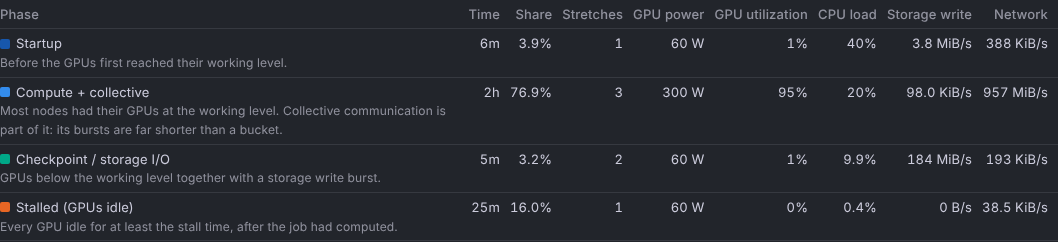
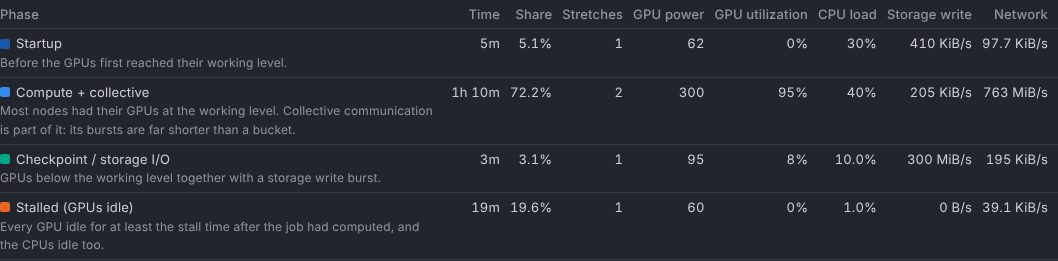
docs(job-dashboard): bring the job phases documents in line with the fixes
Replace the screenshots, state the measured request counts per node
count and the timings of the 2,000-node run, record the second round of
checks against Prometheus and VictoriaMetrics in the design record, and
add the limits that the review showed: one active GPU sample ends an
idle run, GPU work at or below the idle threshold is idle, and a scrape
interval of more than five minutes cannot be measured.

Claude-Session: https://claude.ai/code/session_012me448yAksxRtbQf2QUjB3

diff --git a/docs/job-phases.md b/docs/job-phases.md
@@ -10,7 +10,7 @@ The phases are labels for what the telemetry of the job's nodes showed. They are
 
 ## What the section shows
 
-- **Breakdown bar and legend**: the share of the analysed window per label, for example `3.9% Startup, 76.9% Compute + collective, 3.2% Checkpoint / storage I/O, 16.0% Stalled (GPUs idle)`. The shares are printed with one decimal and add up to 100.0%. Unclassified time and time without GPU data have their own shares.
+- **Breakdown bar and legend**: the share of the analysed window per label, for example `5.1% Startup, 72.2% Compute + collective, 3.1% Checkpoint / storage I/O, 19.6% Stalled (GPUs idle)`. The shares are printed with one decimal and add up to 100.0%. Unclassified time and time without GPU data have their own shares.
 - **Timeline**: the stretches in time order. The strip always spans exactly the analysed window, and every block starts and ends at the true times of its stretches. Hover a block to read its window, length and label. Click it to zoom the metric panels to it (a metric must be pinned, so that a panel exists). Neighbouring stretches that are each shorter than 1/360 of the window (two pixels on a strip of 700 pixels) cannot be drawn one by one: such a run is drawn as one block whose bands show the shares of its labels from bottom to top, and a note under the strip says so. A single short stretch between two long ones keeps its own block; when it is narrower than a pixel it may not be visible.
 - **Notes**: the analysed window and its resolution, and everything that limits the result for this job: missing signals, nodes without telemetry, a node whose GPUs were idle while other nodes worked.
 - **Phase details and telemetry**: per label the time, the share, the number of stretches and the typical telemetry (medians), so that you can check a label against the numbers. GPU power is printed without a unit, because the power metric is configurable and only its ratio to the job's working level is used.
@@ -29,8 +29,8 @@ For a job that Slurm records as RUNNING, a warning appears when the job is stall
 |-------|---------------------------|
 | **Startup** | The time before the GPUs first reached their working level. |
 | **Compute + collective** | Most nodes had their GPUs at the working level. Collective communication is part of this phase, because its bursts inside a training step are far shorter than a bucket. |
-| **Checkpoint / storage I/O** | GPUs below the working level together with a storage write burst. |
-| **Stalled (GPUs idle)** | Every GPU of the job idle for at least the stall time, after the job had computed, unless the CPUs were at least as busy as during compute. The label names what was observed: a hang, and a job that waits (an interactive session, a `sleep` at the end), look the same. |
+| **Checkpoint / storage I/O** | GPUs below the working level, or idle, together with a storage write burst. |
+| **Stalled (GPUs idle)** | Every GPU of the job idle for at least the stall time, after the job had computed, with the CPUs idle too. The label names what was observed: a hang, and a job that waits (an interactive session, a `sleep` at the end), look the same. |
 | **Unclassified** | GPU telemetry exists, but the stretch fits none of the four phases. The section gives the reason (see below). |
 | **No GPU data** | No node of the job reported GPU telemetry. |
 
@@ -119,9 +119,9 @@ These numbers come from generated data. Real telemetry has not been measured.
 
 ### Checkpoints need a write series
 
-A scrape interval is measured from the last ten minutes of the run, so one of more than five minutes cannot be measured. A counter that is scraped that rarely has fewer than two samples in a bucket. On Prometheus its signal then has the state "too few samples for a rate" and is treated like a missing series (not like a rate of zero); VictoriaMetrics computes a rate from the last sample before the bucket, which spreads a burst over the scrape interval.
-
 A checkpoint is reported only where the configured storage write metrics show a burst. The default, `node_disk_written_bytes_total`, covers **local disks only**. A checkpoint to a network file system (Lustre, GPFS, NFS) does not show in it: the GPUs dip, and the dip is unclassified. To see such checkpoints, name a client-side write counter of that file system in the settings. Without any write series, no checkpoint is reported and the notes say so.
+
+The scrape interval of a counter is measured in the last ten minutes of the run, so an interval of more than five minutes cannot be measured. A counter that is scraped that rarely has fewer than two samples in a bucket. On Prometheus its signal then has the state "too few samples for a rate" and is treated like a missing series (not like a rate of zero); VictoriaMetrics computes a rate from the last sample before the bucket, which spreads a burst over the scrape interval. Measured with a storage exporter scraped every 10 minutes: Prometheus reported "too few samples" and no checkpoint; VictoriaMetrics reported 2 minutes of checkpoint for two true checkpoints of 4 minutes.
 
 ### Stalls
 
@@ -136,6 +136,8 @@ A checkpoint is reported only where the configured storage write metrics show a 
 - **A write during a hang** does not hide the hang. The idle run is counted first; a single written bucket, or a node that writes for a minute every few minutes, leaves the run a stall. Only an idle run that writes at burst level in more than half of its buckets is a checkpoint.
 - **A GPU that spins at full utilization** without doing work is not idle. It is seen only through power: when the power is under half of the working level, the stretch is unclassified (GPUs low).
 - **A long checkpoint to storage without a write series** (longer than the stall time) is reported as stalled when the CPUs are idle during it.
+- **One active GPU sample ends an idle run.** A hang in which one GPU shows a utilization sample above the idle threshold every few minutes has no idle run of the stall time and is not reported as stalled; its stretches are unclassified ("idle for less than the stall time").
+- **GPU work at or below the idle threshold** (sparse inference at 3 to 5% utilization) counts as idle GPUs, and as a stall when the CPUs are idle too. Lower the idle threshold in the settings for such workloads.
 - **A suspended job** has idle GPUs. The plugin knows only whether the job is suspended now and says so; an earlier suspension reads as a stall.
 - **A job that Slurm records as running after it ended** (a runaway job) has idle GPUs and reads as stalled now.
 - **A hang that keeps the GPUs busy** looks like compute. A hang that keeps GPU utilization above the idle threshold (for example 12% from a polling thread) is not idle either: it is unclassified (GPUs low) while the working level comes from real compute, and it reads as compute when it fills more than nine tenths of the active time of the job.
@@ -143,7 +145,7 @@ A checkpoint is reported only where the configured storage write metrics show a 
 
 ### Nodes and GPUs
 
-- GPU telemetry is read **per node**. When the job's nodes report more GPUs than the job allocated, the node averages would include other jobs, and the section gives **no result** for the job. The GPUs of each node are counted in three windows of ten minutes: at the end of the run, ten minutes after its start and in its middle (a job shorter than about 20 minutes has one or two windows). The count of a node is the median of the windows in which it reports, so a node whose exporter is silent at the end of the run is still counted, and an exporter restart, which shows every GPU twice in one window, does not refuse the job. GPUs of another job that report in none of these windows are not seen. Anything that makes a node export more utilization series than Slurm counts GPUs has the same effect: the same exporter stored twice (set the cluster's Metrics Filter to one copy), or one series per GPU partition.
+- GPU telemetry is read **per node**. When the job's nodes report more GPUs than the job allocated, the node averages would include other jobs, and the section gives **no result** for the job. The GPUs of each node are counted in three windows of ten minutes: at the end of the run, ten minutes after its start and in its middle (a job shorter than 20 minutes has one window, a job shorter than 30 minutes two). The count of a node is the median of the windows in which it reports, so a node whose exporter is silent at the end of the run is still counted, and an exporter restart, which shows every GPU twice in one window, does not refuse the job. GPUs of another job that report in none of these windows are not seen. Anything that makes a node export more utilization series than Slurm counts GPUs has the same effect: the same exporter stored twice (set the cluster's Metrics Filter to one copy), or one series per GPU partition.
 - When fewer GPUs report than the job allocated, the result covers the GPUs that report, and the notes say so. A GPU whose series is missing while the other GPUs of its node report is not noticed.
 - CPU load, storage write and network are node-wide. Another job on the same node adds to them.
 - A job on nodes with different GPU models has one working level for all nodes, and the level in power comes from the stronger GPUs. Nodes with weaker GPUs can read as below the working level although they work at full utilization. When most nodes have the weaker model, the whole job is unclassified with the reason "In no bucket did more than half of the nodes reach the job's working level".
@@ -193,7 +195,7 @@ A query names every node of the job, so it grows with the job. The plugin keeps 
 | 1,500 | 64 | 11,230 characters |
 | 2,000 | 80 | 10,212 characters |
 
-The 2,000-node job (every node exporting 1 GPU and 2 CPUs at a 30 s scrape interval, a run of 73 minutes, both backends on the same machine as the test) took 2.2 s on Prometheus and 1.3 s on VictoriaMetrics for all 80 requests. Jobs of more than 2,000 nodes are not analysed. No larger job and no other backend was run.
+The 2,000-node job (every node exporting 1 GPU and 2 CPUs at a 30 s scrape interval, a run of 73 minutes, both backends on the same machine as the test) took 1.5 to 2.2 s on Prometheus and 1.2 to 1.3 s on VictoriaMetrics for all 80 requests, in two runs. Jobs of more than 2,000 nodes are not analysed. No larger job and no other backend was run.
 
 The result is computed once when the page opens, and again on **Refresh**.
 

diff --git a/docs/superpowers/specs/2026-11-28-job-phase-segmentation-design.md b/docs/superpowers/specs/2026-11-28-job-phase-segmentation-design.md
@@ -438,9 +438,10 @@ The issue makes the overlay and the export optional.
   (`segment.property.test.ts`): segments tile the window without gap or
   overlap; totals and shares add up; a bucket is "no data" exactly when no
   node has a GPU sample; a stall only where every GPU of every node is
-  proven idle, after compute, in a run of the stall time; a checkpoint only
-  with a known write rate at the burst level; no claim that needs a missing
-  signal; no dependence on the unit of power, on the unit of the write rate
+  proven idle, after compute, in a run of the stall time, with a median
+  CPU load of the run under the idle limit; a checkpoint only with a write
+  rate at the burst level in the bucket, or in more than half of a long
+  idle run; no claim that needs a missing signal; no dependence on the unit of power, on the unit of the write rate
   (with a zero floor), on the network signal, on node order or start time;
   deterministic. The generator produces every label and every reason.
 - **Accuracy on synthetic jobs** (`accuracy.test.ts`,
@@ -463,7 +464,8 @@ The issue makes the overlay and the export optional.
   buckets where two phases meet.
 
   Hard cases, each a test: no disk series (checkpoints become unclassified,
-  never a phase); one stalled node of eight (job labels unchanged, node
+  never a phase); no CPU series (the stall becomes unclassified, never a
+  phase); one stalled node of eight (job labels unchanged, node
   named); power-capped job (110 W working, 60 W idle); low GPU load (30%);
   a job shorter than ten samples (no result, no query); a 15-minute gap on
   every node (no data); a gap on one node of four during a stall (those
@@ -475,18 +477,54 @@ The issue makes the overlay and the export optional.
 
   Share of the true checkpoint time reported, 1-minute buckets: 15 s 0%,
   30 s 30%, 45 s 85%, 60 s 81%, 90 s 91%, 2 min 91%, 5 min 96%.
-- **Real backends.** The collection and segmentation code was run against
-  Prometheus 3.5.0 and VictoriaMetrics 1.102.1 with generated telemetry of
-  19 jobs (per-CPU node_exporter series, several disks, a loopback
-  interface, a busy job before the job on the same nodes, a 64-node job, a
-  3-day job). After the fixes of decisions 7 and 8, both backends gave the
-  same label for every bucket as the fake backend of the tests, and no
-  point was off the grid.
-- **Real Grafana.** Grafana 13.3.1 with MariaDB and both backends, headless
-  Chromium: the section in dark and light theme for 15 jobs, hover, zoom,
-  the label draft (requests recorded), the settings page (save untouched,
-  invalid value refused, edited values served by the backend), a cluster
-  with the feature off.
+- **Real backends, first round.** The collection and segmentation code was
+  run against Prometheus 3.5.0 and VictoriaMetrics 1.102.1 with generated
+  telemetry of 19 jobs (per-CPU node_exporter series, several disks, a
+  loopback interface, a busy job before the job on the same nodes, a
+  64-node job, a 3-day job). Both backends gave the same label for every
+  bucket as the fake backend of the tests, and no point was off the grid.
+- **Real Grafana, first round.** Grafana 13.3.1 with MariaDB and both
+  backends, headless Chromium: the section in dark and light theme for 15
+  jobs, hover, zoom, the label draft (requests recorded), the settings page
+  (save untouched, invalid value refused, edited values served by the
+  backend), a cluster with the feature off.
+- **Adversarial review and second round.** A reviewer ran the plugin's
+  code against the two backends with a telemetry generator of its own (17
+  jobs) and found twelve defects that the first round had not: the fixture
+  of the first round had no CPU work below the compute level, no write
+  inside a hang, one scrape interval for every exporter, short node lists
+  and few stretches. The decisions above record each fix. After the fixes,
+  the same generator and two added jobs (2,000 nodes with full telemetry;
+  a storage exporter scraped every 10 minutes) were run again on both
+  backends:
+  - 18 jobs give the same label for every bucket on both backends: CPU
+    work at 54% after compute at 60% is unclassified; a hang of 60 minutes
+    in which a node writes for 75 s every 9 minutes is one stalled stretch
+    of 59 minutes; a storage exporter scraped every 60 s gives 4-minute
+    buckets and a checkpoint on both; jobs of 300, 700, 1,500 and 2,000
+    nodes are answered with 14, 28, 64 and 80 requests, none longer than
+    12,000 characters; a job on shared nodes whose exporters are silent at
+    the end of the run is refused.
+  - The job with the storage exporter scraped every 10 minutes differs in
+    8 of 102 buckets: Prometheus reports "too few samples" and no
+    checkpoint, VictoriaMetrics two minutes of checkpoint. The interval is
+    longer than the probe can measure; the user document states this.
+  - A Prometheus with `--query.max-samples=12000`, on which only the CPU
+    query fails, gives the error "The query for CPU load failed: ..." and
+    no phases.
+  - In Grafana 13.3.1 with headless Chromium, a job of 24 hours that
+    alternates every minute (1,439 stretches) was measured at page widths
+    of 1500, 768 and 400: the timeline spans exactly the strip, every
+    boundary is within 1/64 pixel of its place, the page does not scroll
+    sideways, and the wide tables scroll inside the section. Invalid
+    `phases` values stored through Grafana's settings API leave every
+    route at HTTP 200.
+  - Mutation testing: 34 mutants of the changed rules and limits (the
+    reviewer's surviving mutants that still apply, and one or more per
+    fix) are all killed by the tests. One reported mutant is equivalent:
+    a shortest bucket of 30 s instead of 60 s changes nothing, because
+    the bucket length is rounded up to a usual step and the shortest of
+    those is 60 s.
 
 Not verified: real telemetry from a production cluster; Grafana 12.4; the
 Docker Compose E2E suite (`make test-integration` needs a Docker daemon);
@@ -513,6 +551,17 @@ the build environment).
   idle. It is unclassified (GPUs low) while the job's working level comes
   from real compute, and it reads as compute when it fills more than nine
   tenths of the active buckets.
+- **One active GPU sample ends an idle run.** In a hang of 64 nodes, one
+  utilization sample of 6% on one GPU every nine minutes keeps every idle
+  run under a stall time of ten minutes, so no stall is reported. The
+  stretches are unclassified ("idle for less than the stall time").
+- **GPU work at or below the idle threshold is idle.** Sparse inference or
+  a notebook whose utilization samples stay at 3 to 5% reads as idle GPUs,
+  and as a stall when the CPUs are idle too. The idle threshold is a
+  setting.
+- **A scrape interval of more than five minutes cannot be measured** by a
+  probe of ten minutes. For such a counter the two backends differ
+  (decision 4).
 - **Suspension**: only "suspended now" is known. An earlier suspension reads
   as a stall. slurmdbd's suspend table is not read.
 - **Mixed GPU models in one job** share one working level, and its power
@@ -526,9 +575,9 @@ the build environment).
 - **The idle test covers the GPUs that report.** A GPU whose series is
   missing while its node's other GPUs report is not noticed. The GPU count
   is probed in up to three windows of ten minutes; GPUs of another job that
-  report in none of them are not seen, and a job shorter than about 20
-  minutes has one or two windows, so an exporter restart in it can still
-  make the job look like one on shared nodes.
+  report in none of them are not seen, and a job shorter than 30 minutes
+  has one or two windows, so an exporter restart in it can still make the
+  job look like one on shared nodes.
 - **Aliasing.** Gauges are point samples. A load that repeats with a period
   near a multiple of the scrape interval is read at the same point of its
   cycle every time, so a GPU that is busy a third of the time can read as
